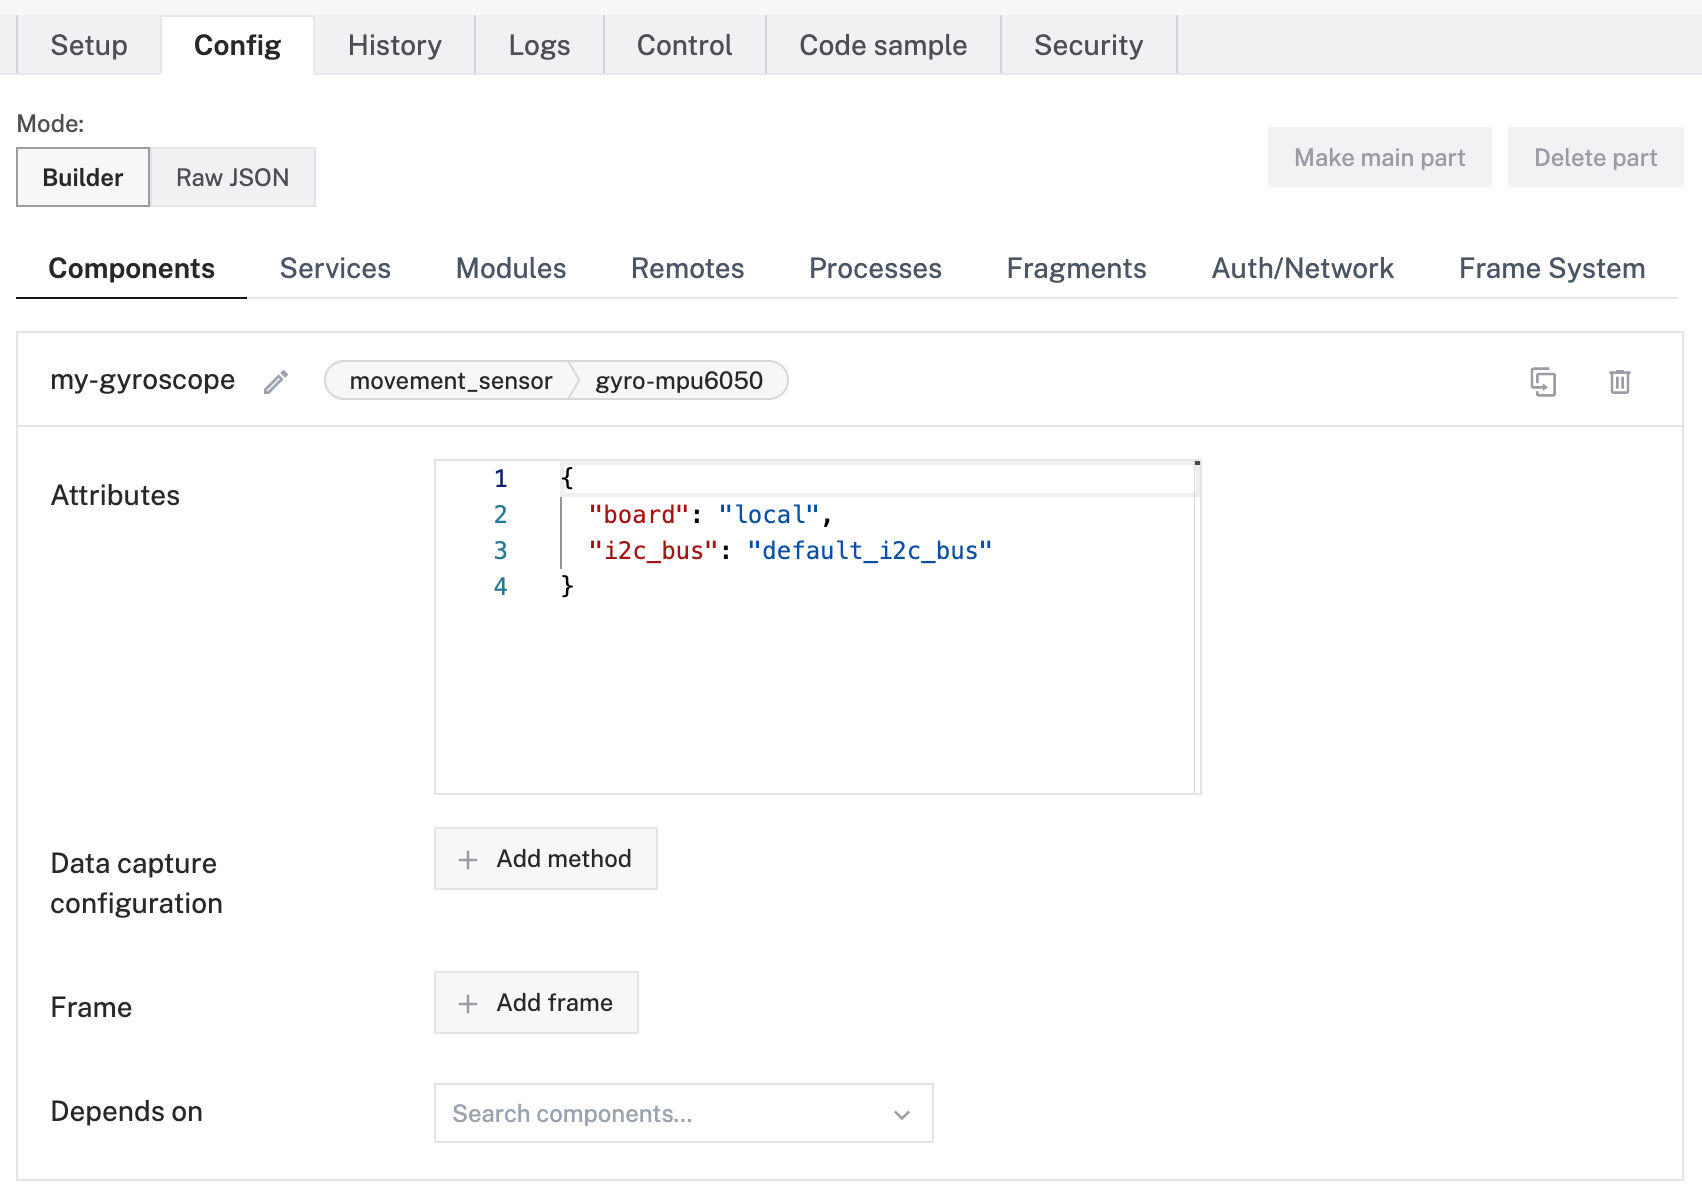
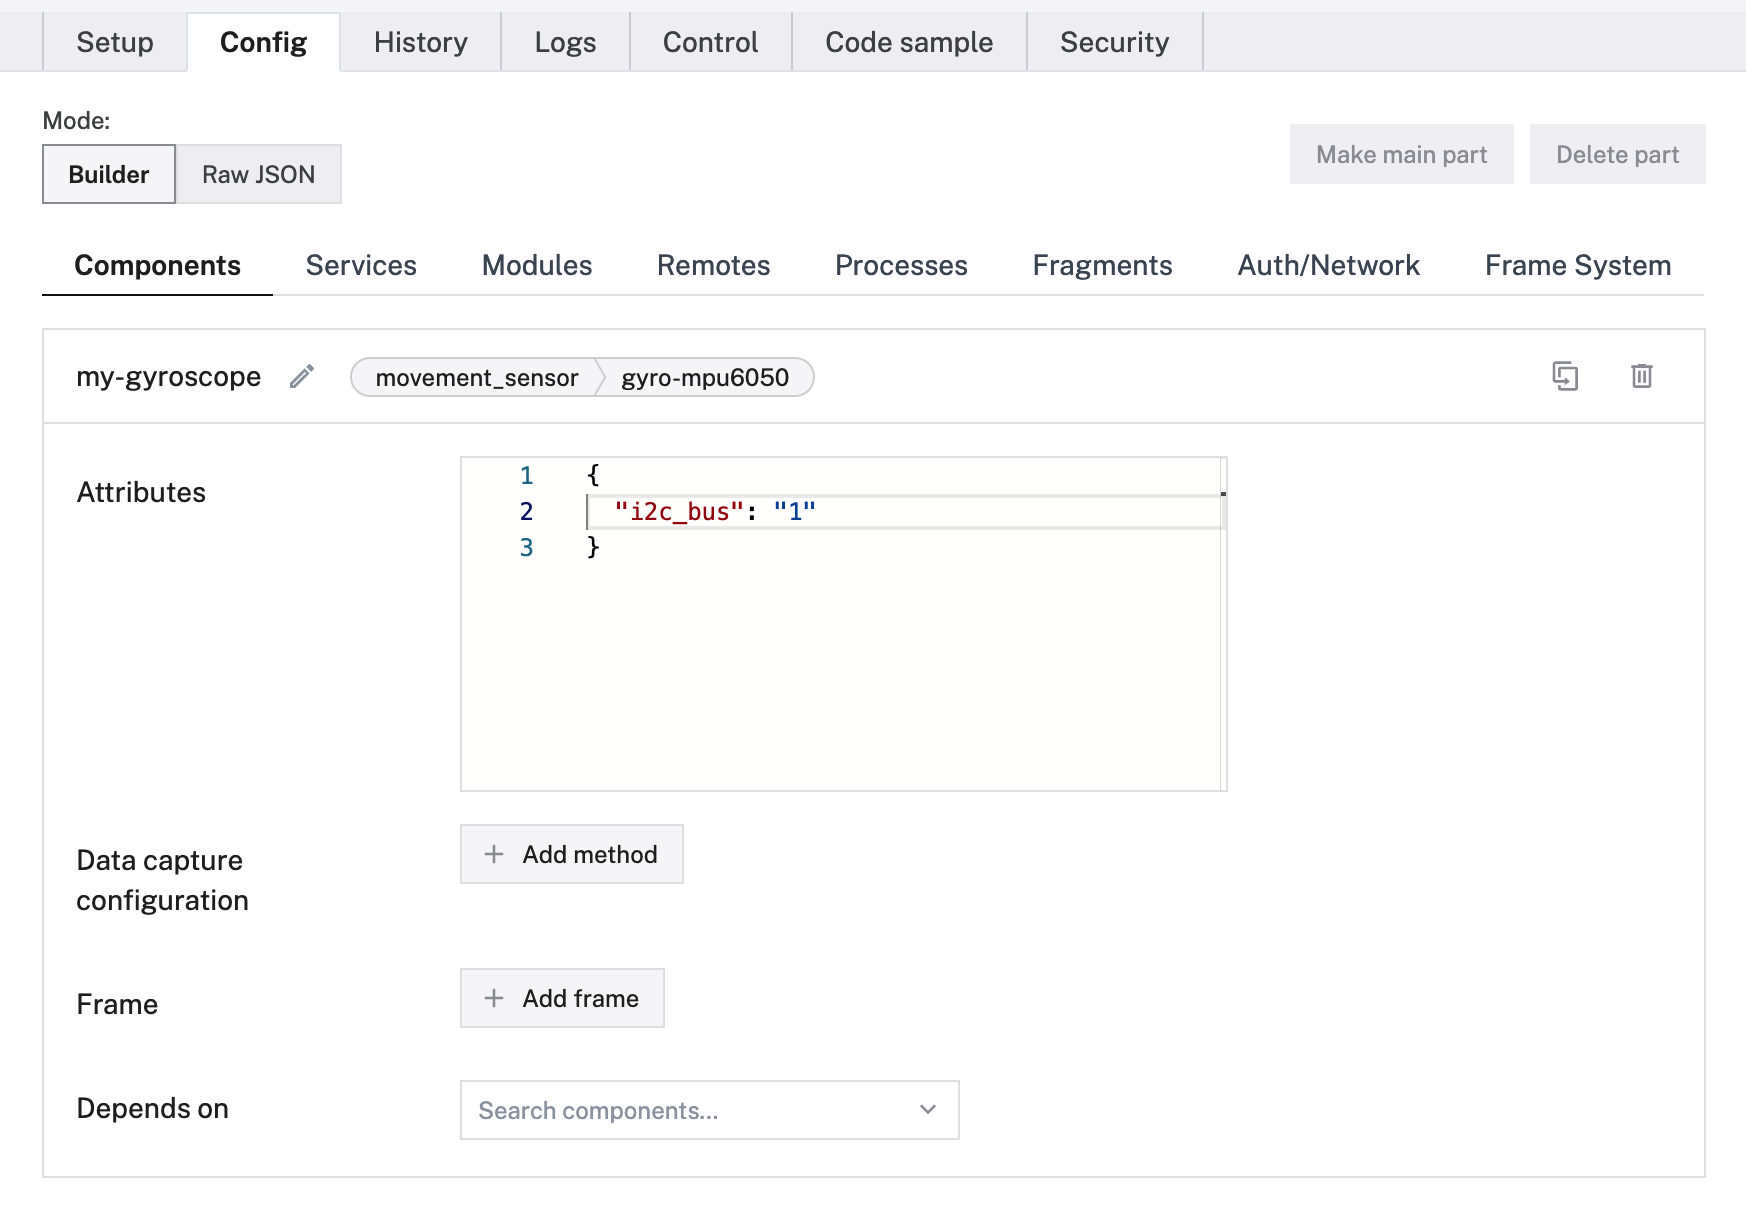
Update I2Cs for mpu6050

diff --git a/docs/components/movement-sensor/mpu6050.md b/docs/components/movement-sensor/mpu6050.md
@@ -30,8 +30,7 @@ Then remove and fill in the attributes as applicable to your movement sensor, ac
 
 ```json {class="line-numbers linkable-line-numbers"}
 {
-  "board": "<your-board-name>",
-  "i2c_bus": "<your-i2c-bus-name-on-board>",
+  "i2c_bus": "<your-i2c-bus-index-on-board>",
   "use_alt_i2c_address": <boolean>
 }
 ```
@@ -41,8 +40,7 @@ Then remove and fill in the attributes as applicable to your movement sensor, ac
 
 ```json {class="line-numbers linkable-line-numbers"}
 {
-  "board": "local",
-  "i2c_bus": "default_i2c_bus"
+  "i2c_bus": "1"
 }
 ```
 
@@ -61,8 +59,7 @@ Then remove and fill in the attributes as applicable to your movement sensor, ac
       "type": "movement_sensor",
       "namespace": "rdk",
       "attributes": {
-        "board": "<your-board-name>",
-        "i2c_bus": "<your-i2c-bus-name-on-board>",
+        "i2c_bus": "<your-i2c-bus-index-on-board>",
         "use_alt_i2c_address": <boolean>
       },
       "depends_on": []
@@ -78,27 +75,12 @@ Then remove and fill in the attributes as applicable to your movement sensor, ac
 {
   "components": [
     {
-      "name": "local",
-      "model": "pi",
-      "type": "board",
-      "namespace": "rdk",
-      "attributes": {
-        "i2cs": [
-          {
-            "name": "default_i2c_bus",
-            "bus": "1"
-          }
-        ]
-      }
-    },
-    {
       "name": "my_accelgyro",
       "model": "gyro-mpu6050",
       "type": "movement_sensor",
       "namespace": "rdk",
       "attributes": {
-        "board": "local",
-        "i2c_bus": "default_i2c_bus"
+        "i2c_bus": "1"
       }
     }
   ]
@@ -113,8 +95,7 @@ Then remove and fill in the attributes as applicable to your movement sensor, ac
 <!-- prettier-ignore -->
 | Name                  | Type    | Inclusion    | Description |
 | --------------------- | ------- | ------------ | ----------- |
-| `board`               | string  | **Required** | The `name` of the [board](/components/board/) to which the device is wired. |
-| `i2c_bus`             | string  | **Required** | The `name` of the [I<sup>2</sup>C bus configured](/components/board/#i2cs) on your [board](/components/board/) wired to this device. |
+| `i2c_bus`             | string  | **Required** | The index of the [I<sup>2</sup>C bus configured](/components/board/#i2cs) on your [board](/components/board/) wired to this device. |
 | `use_alt_i2c_address` | boolean | Optional     | Depends on whether you wire AD0 low (leaving the default address of 0x68) or high (making the address 0x69). If high, set `true`. If low, set `false`. <br> Default: `false` |
 
 ## Test the movement sensor
